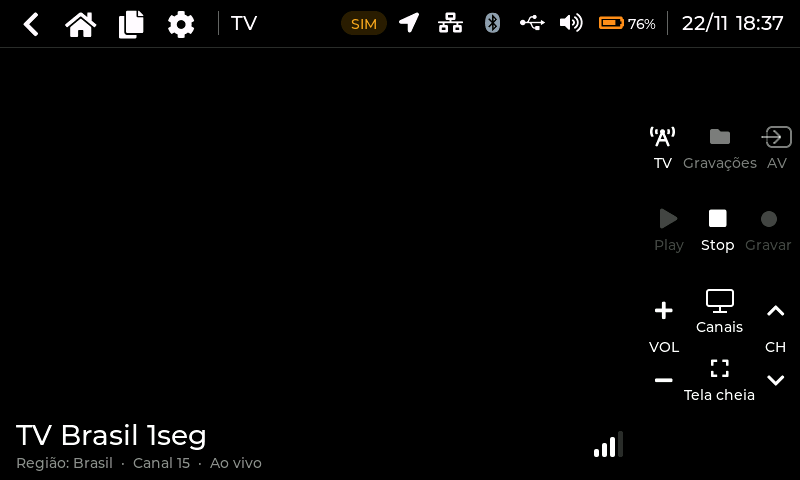
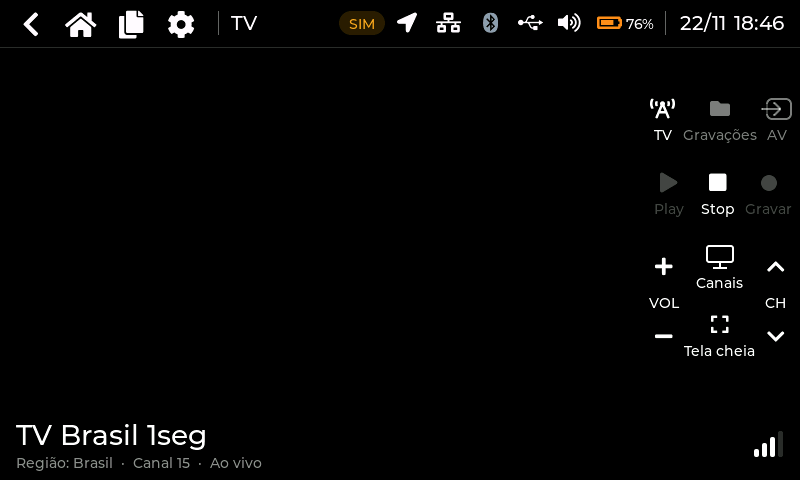
TV: rodapé de ponta a ponta da tela (controle acaba acima dele)

diff --git a/src/ui/screens/scr_tv.c b/src/ui/screens/scr_tv.c
@@ -739,8 +739,8 @@ static void build_column(int h)
     lv_obj_set_style_pad_ver(col, 4, 0);
     lv_obj_set_flex_flow(col, LV_FLEX_FLOW_COLUMN);
     lv_obj_set_flex_align(col, LV_FLEX_ALIGN_CENTER, LV_FLEX_ALIGN_CENTER, LV_FLEX_ALIGN_CENTER);
-    lv_obj_set_style_pad_row(col, h >= 400 ? 26 : 10, 0);
-    int kh = h >= 400 ? 56 : 50;
+    lv_obj_set_style_pad_row(col, h >= 340 ? 18 : 4, 0);
+    int kh = h >= 340 ? 56 : 46;
     /* fonte: TV, gravações, AV */
     lv_obj_t *r = krow(col);
     src_btn[0] = key(r, BF_SYMBOL_TOWER, NULL, "TV", 34, kh, on_src, (void *)(intptr_t)SRC_TV);
@@ -773,7 +773,7 @@ static void build_column(int h)
 /* rodapé sob o vídeo: nome do canal; região e situação menores e mais escuras; sinal à direita */
 static void build_footer(int y, int h)
 {
-    foot = box(root, AREA_W, h);
+    foot = box(root, BF_SCREEN_W, h);                    /* de ponta a ponta, sob o vídeo e o controle */
     lv_obj_set_pos(foot, 0, y);
     lv_obj_set_style_pad_hor(foot, BF_SP_L, 0);
     ft_info = box(foot, LV_PCT(100), LV_PCT(100));
@@ -784,9 +784,9 @@ static void build_footer(int y, int h)
     lv_obj_set_flex_flow(t, LV_FLEX_FLOW_COLUMN);
     lv_obj_set_style_pad_row(t, 2, 0);
     ft_name = lbl(t, "", BF_FONT_L, C_WHITE);
-    bf_label_ellipsis(ft_name, 520);
+    bf_label_ellipsis(ft_name, 660);
     ft_sub = lbl(t, "", BF_FONT_S, C_GRAY);
-    bf_label_ellipsis(ft_sub, 520);
+    bf_label_ellipsis(ft_sub, 660);
     ft_bars = glass_bars(ft_info);
     for(uint32_t i = 0; i < lv_obj_get_child_count(ft_bars); i++)
         lv_obj_set_style_bg_color(lv_obj_get_child(ft_bars, (int32_t)i), C_WHITE, 0);
@@ -955,7 +955,7 @@ static void create(lv_obj_t *parent, int arg)
     lv_obj_set_style_bg_color(video, lv_color_black(), 0);
     lv_obj_set_style_bg_opa(video, LV_OPA_COVER, 0);
     panel = box(video, AREA_W, area_h);
-    build_column(h);
+    build_column(area_h);                                /* o controle acaba onde começa o rodapé */
     build_footer(area_h, h - area_h);
     lv_obj_update_layout(root);
     lv_area_t a;
